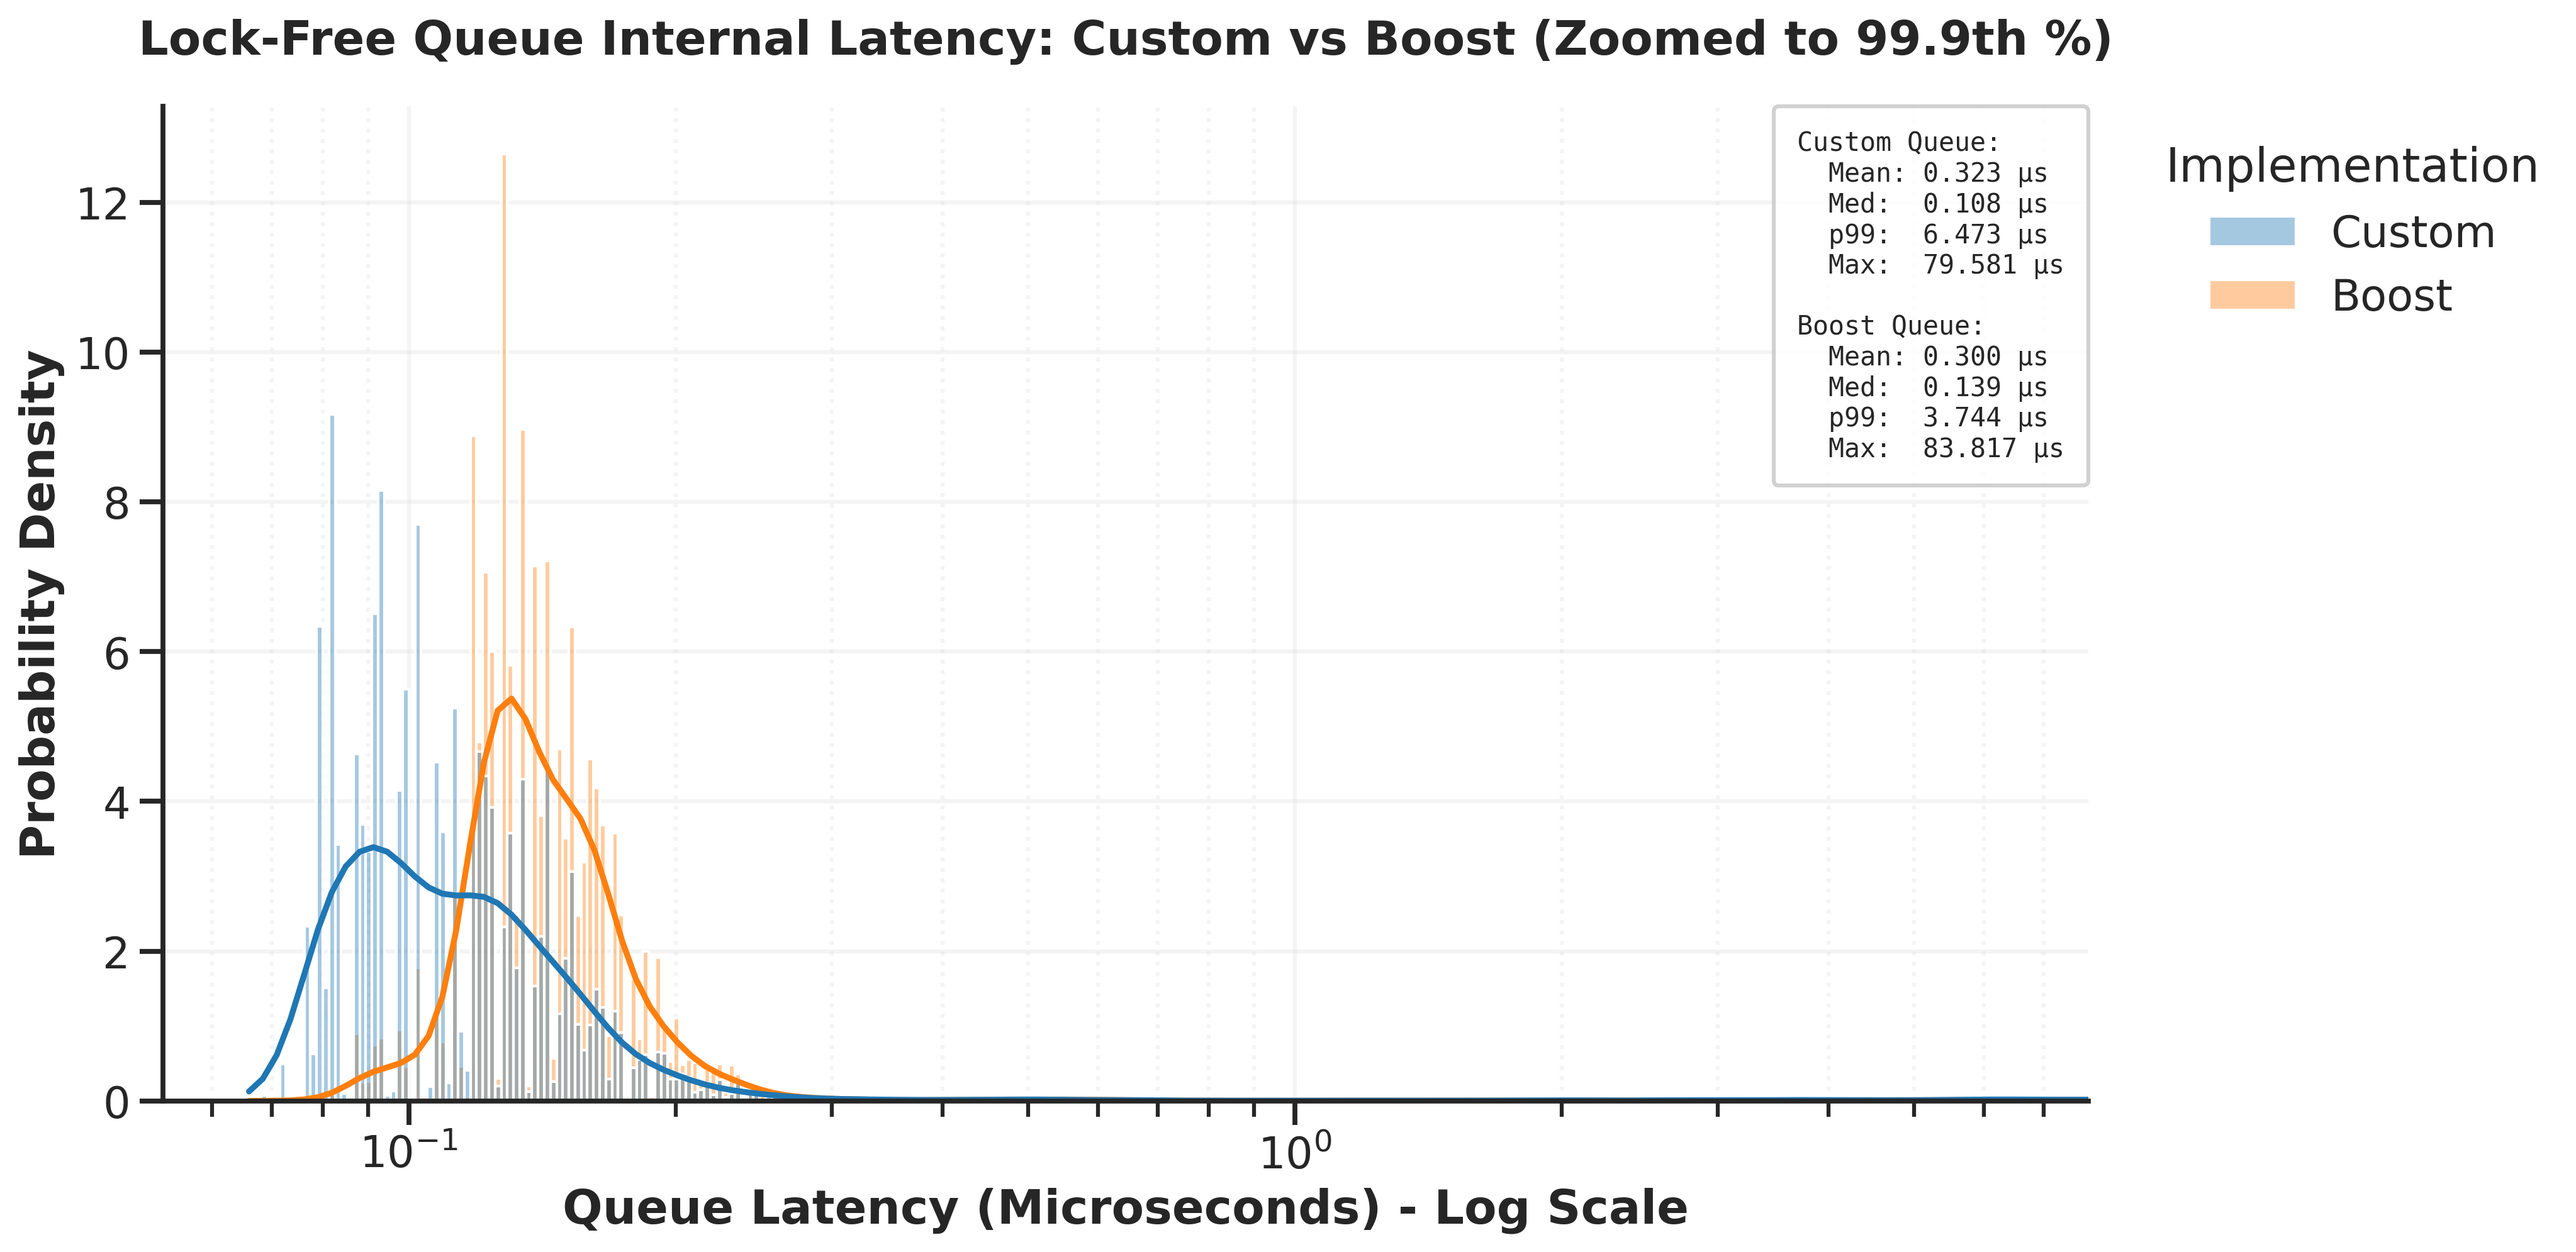
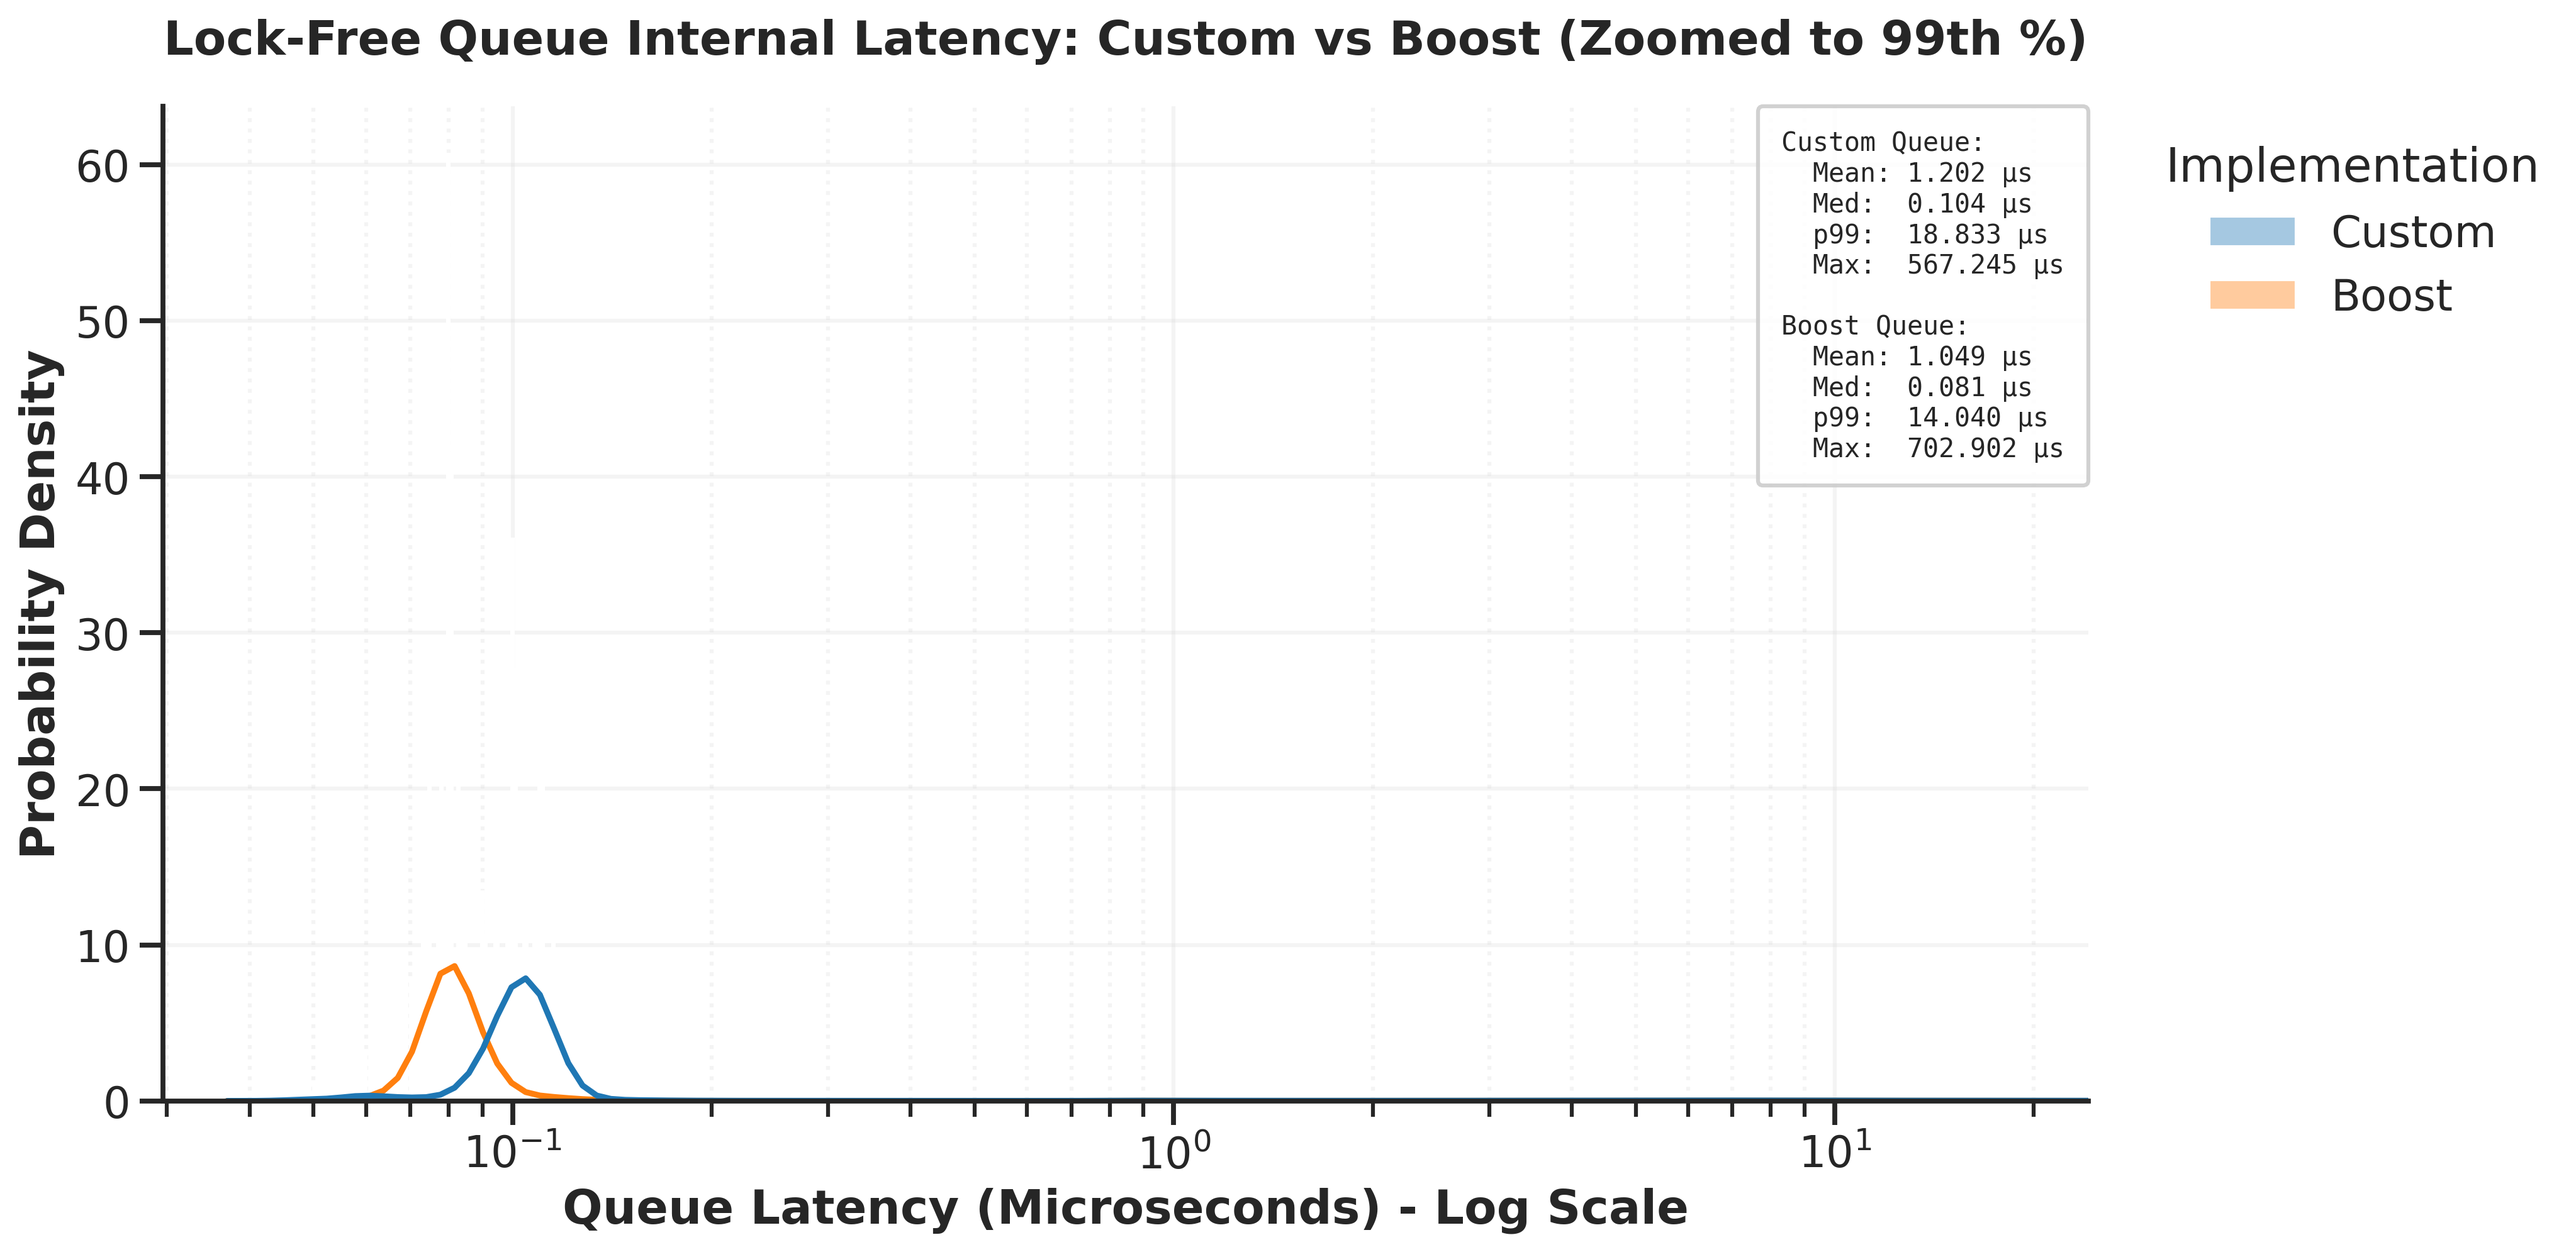
Change to steady clock

diff --git a/src/generator/BaseGenerator.h b/src/generator/BaseGenerator.h
@@ -48,28 +48,29 @@ protected:
 
 private:
     void generation_loop(const std::stop_token &stop_tok) {
-        auto next_time = std::chrono::high_resolution_clock::now();
+        auto next_time = std::chrono::steady_clock::now();
 
         while (!stop_tok.stop_requested()) {
-            auto now = std::chrono::high_resolution_clock::now();
+            auto now = std::chrono::steady_clock::now();
 
             if (now >= next_time) {
                 types::MarketDataMsg msg = static_cast<Derived*>(this)->generate_msg_impl();
 
                 std::visit([](auto&& arg) {
                     arg.enqueue_timestamp = std::chrono::duration_cast<std::chrono::nanoseconds>(
-                        std::chrono::high_resolution_clock::now().time_since_epoch()).count();
+                        std::chrono::steady_clock::now().time_since_epoch()).count();
                 }, msg);
 
                 while (!stop_tok.stop_requested() && !queue_.push(msg)) {
                 }
 
                 next_time += interval_;
-            } else {
-                if (next_time - now > std::chrono::milliseconds(2)) {
-                    std::this_thread::sleep_for(std::chrono::milliseconds(1));
-                }
             }
+            // else {
+            //     if (next_time - now > std::chrono::milliseconds(2)) {
+            //         std::this_thread::sleep_for(std::chrono::milliseconds(1));
+            //     }
+            // }
         }
     }
 

diff --git a/src/generator/RandomWalkGenerator.h b/src/generator/RandomWalkGenerator.h
@@ -56,7 +56,7 @@ private:
         next_quote.bid_size = quote_size(rng_);
         next_quote.ask_size = quote_size(rng_);
         next_quote.enqueue_timestamp= std::chrono::duration_cast<std::chrono::nanoseconds>(
-            std::chrono::system_clock::now().time_since_epoch()).count();
+            std::chrono::steady_clock::now().time_since_epoch()).count();
 
         return next_quote;
     }
@@ -73,7 +73,7 @@ private:
         next_trade.price = price;
         next_trade.size = trade_size(rng_);
         next_trade.enqueue_timestamp= std::chrono::duration_cast<std::chrono::nanoseconds>(
-            std::chrono::system_clock::now().time_since_epoch()).count();
+            std::chrono::steady_clock::now().time_since_epoch()).count();
 
         return next_trade;
     }

diff --git a/python/plot_underlying_boost_vs_me.py b/python/plot_underlying_boost_vs_me.py
@@ -63,6 +63,7 @@ def main():
         data=df_all,
         x="queue_us",
         hue="Implementation",
+        # bins=100,
         kde=True,
         log_scale=True,
         stat="density",
@@ -79,7 +80,7 @@ def main():
     min_val = df_all['queue_us'].min() * 0.8
     ax.set_xlim(min_val, p999 * 1.5)
 
-    ax.set_title("Lock-Free Queue Internal Latency: Custom vs Boost (Zoomed to 99.9th %)", pad=20, fontweight='bold')
+    ax.set_title("Lock-Free Queue Internal Latency: Custom vs Boost (Zoomed to 99th %)", pad=20, fontweight='bold')
     ax.set_xlabel("Queue Latency (Microseconds) - Log Scale", fontweight='bold')
     ax.set_ylabel("Probability Density", fontweight='bold')
 
